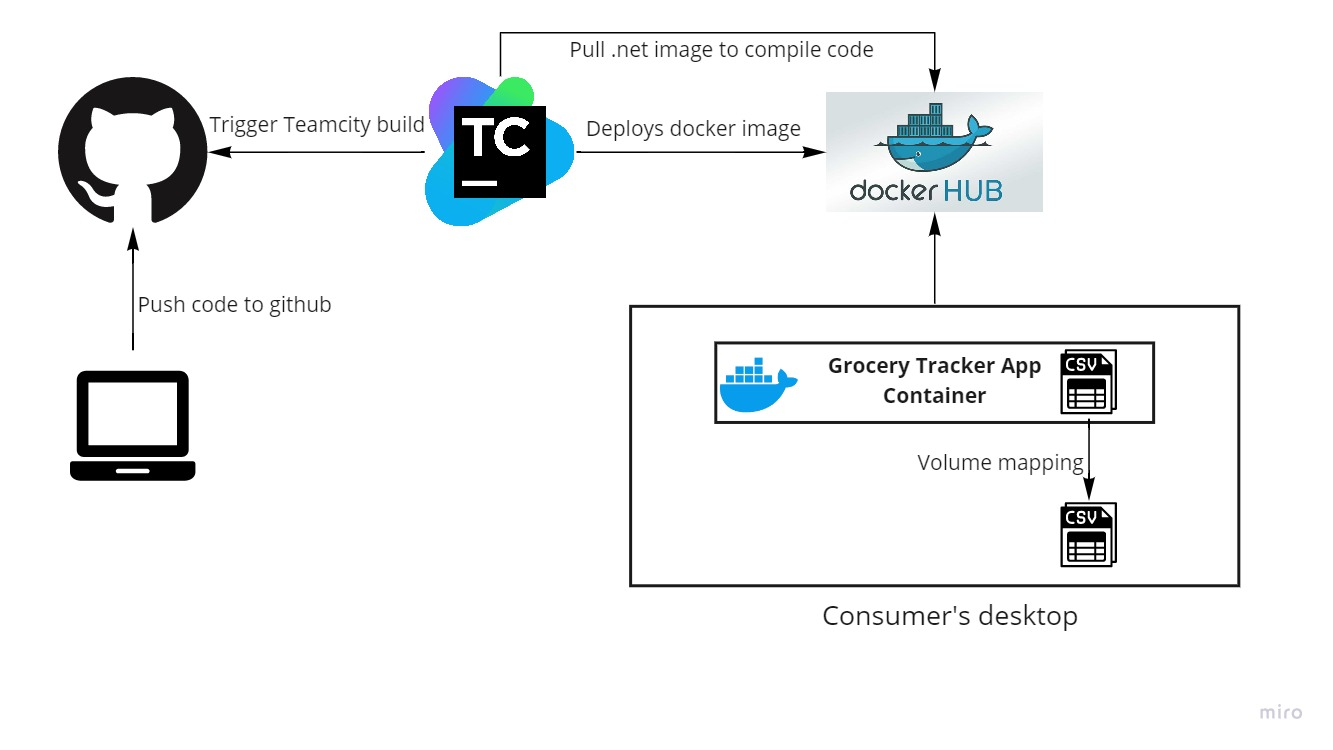
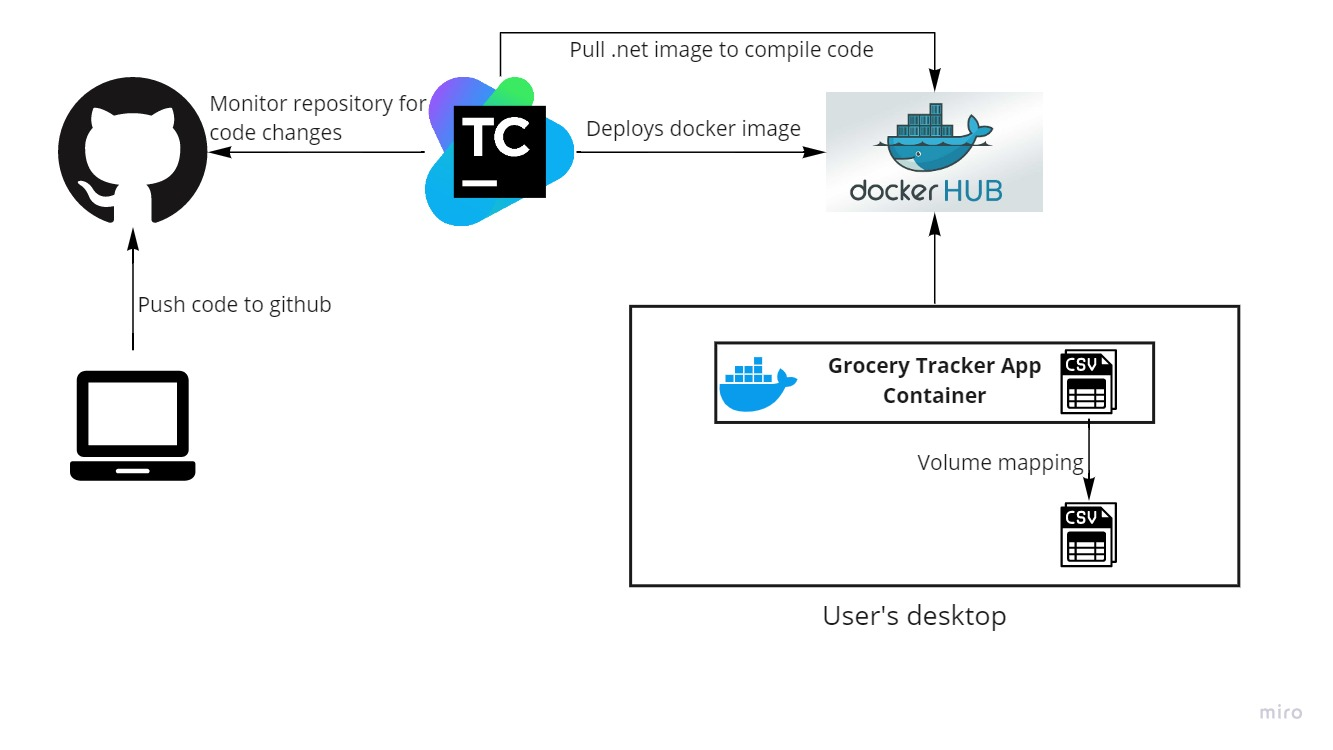
Updated docker file with ENV variable, updated architecture image, parameterised CSV_PATH

diff --git a/src/Grocery.Tracker.ConsoleUI/Program.cs b/src/Grocery.Tracker.ConsoleUI/Program.cs
@@ -59,10 +59,10 @@ namespace Grocery.Tracker.ConsoleUI
                                 PrintGroceries(groceries);
                                 break;
                             }
-                            
 
 
                         }
+                        service.SaveGroceryItem(groceries);
                         break;
                     case 2:
                         Console.WriteLine("You opted to View Groceries");
@@ -81,7 +81,7 @@ namespace Grocery.Tracker.ConsoleUI
                 }
 
                 
-               }
+        }
 
         static void PrintGroceries(List<GroceryItem> items)
         {

diff --git a/src/Grocery.Tracker.Core/GroceryStorageService.cs b/src/Grocery.Tracker.Core/GroceryStorageService.cs
@@ -9,7 +9,7 @@ namespace Grocery.Tracker.Core
 {
     public class GroceryStorageService
     {
-        private string path = Environment.GetEnvironmentVariable("CSV_PATH", EnvironmentVariableTarget.User);
+        private string path = Environment.GetEnvironmentVariable("CSV_PATH");
 
 
         public void SaveGroceryItem(List<GroceryItem> newGroceries)
